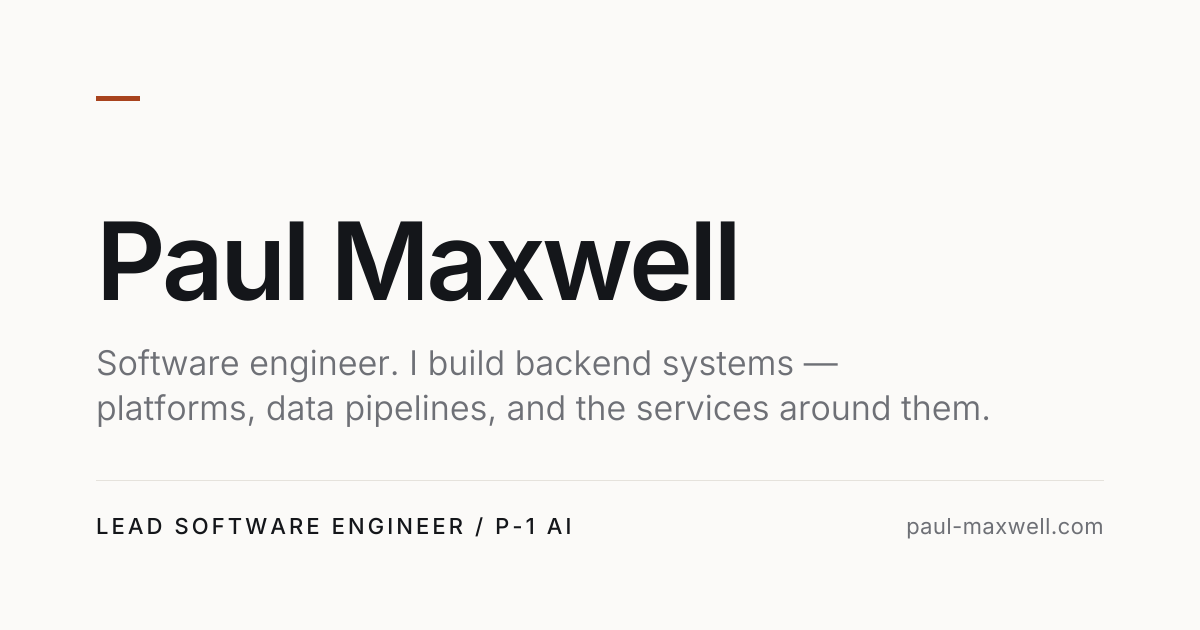
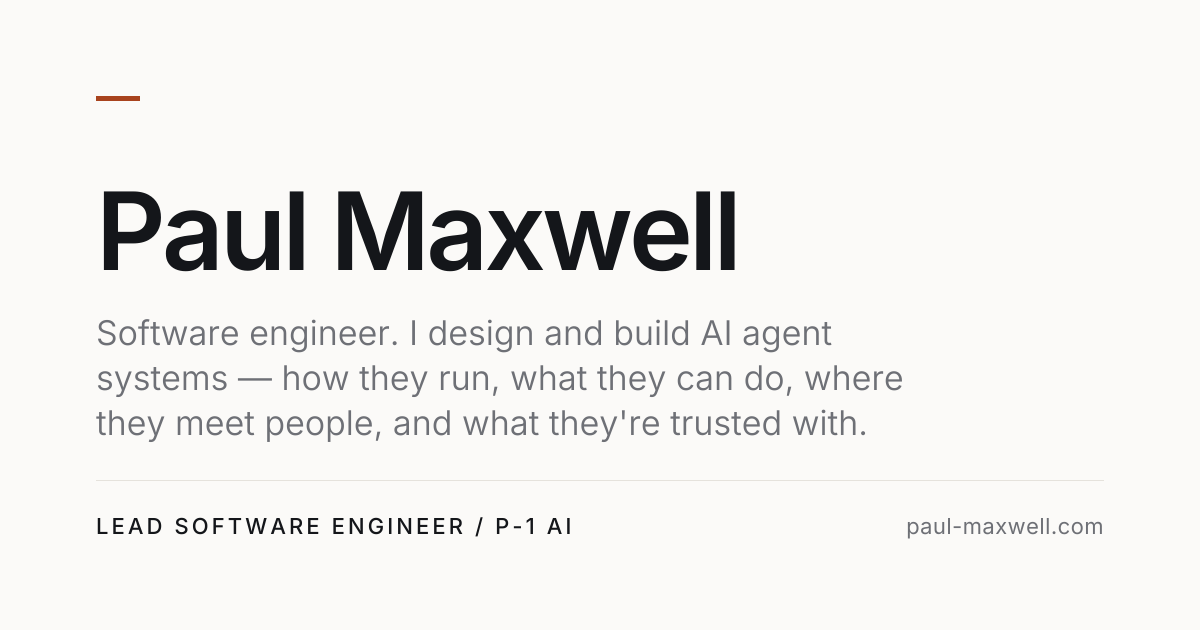
Reposition the site copy around AI agent systems
Rewrite the lede, bio, description, and first About paragraph so the
site leads with designing and building AI agent systems instead of
generic backend work. Work summaries are unchanged. The parked ask
content is synced to the same wording.

The Open Graph card printed the old lede as baked-in text, so
make_assets.py now reads the lede from content/site.toml, wraps it,
and rasterises og-image.png itself instead of leaving that to manual
steps. It records the lede it drew in og-card-lede.txt, and a test
fails when that drifts from site.toml, so the share card cannot go
stale silently again. The script also refuses a lede that does not fit
the card or uses a glyph Inter lacks.

The homepage test compares against site.lede rather than a literal,
and a blank lede now fails content validation.

Changed region(s): [[0.0617, 0.5127, 0.8325, 0.6937], [0.0617, 0.3016, 0.6167, 0.4825]]

diff --git a/docs/superpowers/make_assets.py b/docs/superpowers/make_assets.py
@@ -1,32 +1,26 @@
 """Build the favicon and the Open Graph card from real Inter outlines.
 
 Text is emitted as vector paths, not <text>, so nothing depends on the
-viewer having Inter installed. Writes favicon.svg and og.svg into static/.
+viewer having Inter installed. Writes static/favicon.svg, static/og-image.png,
+and docs/superpowers/og-card-lede.txt.
 
-This script produces SVGs only. It does NOT produce the PNGs that are
-actually shipped — static/og-image.png and static/apple-touch-icon.png.
-Those were rasterised by hand on macOS with `qlmanage` and `sips`, a step
-that lives only in this docstring, not in any script. If you change the
-favicon or OG card, regenerate the SVGs here first, then repeat the manual
-rasterisation below.
+The OG card prints the lede from content/site.toml; its name, role line, and
+domain are still literals here. og-card-lede.txt records the lede the PNG was
+drawn with, and a test in crates/site fails when it drifts from site.toml —
+rerun this script whenever that test says so.
 
-Requires fontTools (with the brotli extra, needed to decode the source
-.woff2). These are not project dependencies — install them separately
-(e.g. `pip install fontTools[woff] brotli`) before running. Run manually
-when the wordmark or brand colours change; this script is never invoked
-by the build (`cargo run -p site`), and the generated/rasterised assets
-are committed to the repo as-is.
+Requires macOS (Quick Look's `qlmanage` and `sips` rasterise the card),
+Python 3.11+, and fontTools with the brotli extra to decode the source
+.woff2. These are not project dependencies — install them separately
+(e.g. `pip install fontTools[woff] brotli`). The build (`cargo run -p site`)
+never invokes this script; its outputs are committed.
 
-Manual PNG rasterisation (macOS, requires Quick Look + `sips`):
+Quick Look scales an SVG to fill a square thumbnail, so rendering the
+630-tall card directly would get magnified and cropped. The card is instead
+placed on a 1200x1200 canvas, shifted down 285px to centre it, and cropped
+back to 1200x630 afterwards.
 
-  og-image.png (1200x630):
-    Quick Look scales an SVG to fill a square thumbnail, so rendering the
-    630-tall card directly would get magnified and cropped. Instead, put
-    the card's content on a square 1200x1200 canvas, with everything
-    translated down by 285px to vertically center the original 630-tall
-    composition, and save that as og_square.svg. Then:
-      qlmanage -t -s 1200 -o <dir> og_square.svg
-      sips -c 630 1200 <dir>/og_square.png --out og-image.png
+static/apple-touch-icon.png is NOT produced here and is still a manual step:
 
   apple-touch-icon.png (180x180):
     iOS ignores transparency and applies its own corner rounding, so the
@@ -35,6 +29,9 @@ Manual PNG rasterisation (macOS, requires Quick Look + `sips`):
     that as touch.svg. Then:
       qlmanage -t -s 180 -o <dir> touch.svg
 """
+import subprocess
+import tempfile
+import tomllib
 from pathlib import Path
 
 from fontTools.ttLib import TTFont
@@ -46,6 +43,7 @@ from fontTools.misc.transform import Transform
 REPO_ROOT = Path(__file__).resolve().parents[2]
 SRC = REPO_ROOT / "static" / "fonts" / "InterVariable.woff2"
 OUT = REPO_ROOT / "static"
+LEDE_STAMP = REPO_ROOT / "docs" / "superpowers" / "og-card-lede.txt"
 
 INK, PAPER, MUTED, RUST = "#14161A", "#FBFAF8", "#6E7076", "#A8431E"
 INK_D, PAPER_D = "#E9E7E2", "#0E0F11"
@@ -60,6 +58,13 @@ def face(weight):
     return _cache[weight]
 
 
+def glyph_name(cmap, ch):
+    name = cmap.get(ord(ch))
+    if name is None:
+        raise ValueError(f"Inter has no glyph for {ch!r}")
+    return name
+
+
 def text_path(s, weight, size_px, x, y, tracking_em=0.0, fill=INK):
     """Render `s` as one <path> at baseline (x, y), `size_px` tall per em."""
     f = face(weight)
@@ -71,10 +76,7 @@ def text_path(s, weight, size_px, x, y, tracking_em=0.0, fill=INK):
     pen = SVGPathPen(gs)
     cursor = 0.0
     for ch in s:
-        name = cmap.get(ord(ch))
-        if name is None:
-            cursor += upem * 0.3
-            continue
+        name = glyph_name(cmap, ch)
         t = Transform(scale, 0, 0, -scale, x + cursor * scale, y)
         gs[name].draw(TransformPen(pen, t))
         cursor += gs[name].width + kern
@@ -87,9 +89,37 @@ def measure(s, weight, size_px, tracking_em=0.0):
     gs, cmap = f.getGlyphSet(), f.getBestCmap()
     total = 0.0
     for ch in s:
-        name = cmap.get(ord(ch))
-        total += (gs[name].width if name else upem * 0.3) + tracking_em * upem
+        total += gs[glyph_name(cmap, ch)].width + tracking_em * upem
     return total * (size_px / upem)
+
+
+def greedy_wrap(s, weight, size_px, max_width):
+    lines, current = [], ""
+    for word in s.split():
+        candidate = f"{current} {word}".strip()
+        if current and measure(candidate, weight, size_px) > max_width:
+            lines.append(current)
+            current = word
+        else:
+            current = candidate
+    return lines + [current]
+
+
+def balanced_wrap(s, weight, size_px, max_width):
+    """Greedy wrapping leaves a short last line; narrow the measure until one
+    more step would add a line, so the lines come out near-equal instead."""
+    lines = greedy_wrap(s, weight, size_px, max_width)
+    for width in range(int(max_width), 0, -8):
+        narrower = greedy_wrap(s, weight, size_px, width)
+        if len(narrower) > len(lines):
+            break
+        lines = narrower
+    return lines
+
+
+def site_lede():
+    with open(REPO_ROOT / "content" / "site.toml", "rb") as f:
+        return tomllib.load(f)["lede"]
 
 
 # ---------------------------------------------------------------- favicon
@@ -111,7 +141,7 @@ def favicon():
 
 
 # --------------------------------------------------------------- OG card
-def og_card():
+def og_card(lede):
     W, H = 1200, 630
     M = 96
     name_size, lede_size, meta_size = 108, 34, 22
@@ -121,12 +151,17 @@ def og_card():
     parts.append(f'<rect x="{M}" y="{H-150}" width="{W-2*M}" height="1" fill="#E5E2DC"/>')
     parts.append(f'<rect x="{M}" y="{M}" width="44" height="5" fill="{RUST}"/>')
 
-    p, _ = text_path("Paul Maxwell", 600, name_size, M, 300, -0.035, INK)
+    lede_lines = balanced_wrap(lede, 350, lede_size, W - 2 * M)
+    widest = max(measure(line, 350, lede_size) for line in lede_lines)
+    if len(lede_lines) > 3 or widest > W - 2 * M:
+        raise ValueError(f"lede does not fit the OG card: {lede_lines}")
+    lede_leading, last_lede_y = 45, 435
+    first_lede_y = last_lede_y - lede_leading * (len(lede_lines) - 1)
+    p, _ = text_path("Paul Maxwell", 600, name_size, M, first_lede_y - 75, -0.035, INK)
     parts.append(p)
-    p, _ = text_path("Software engineer. I build backend systems —", 350, lede_size, M, 375, 0, MUTED)
-    parts.append(p)
-    p, _ = text_path("platforms, data pipelines, and the services around them.", 350, lede_size, M, 420, 0, MUTED)
-    parts.append(p)
+    for i, line in enumerate(lede_lines):
+        p, _ = text_path(line, 350, lede_size, M, first_lede_y + i * lede_leading, 0, MUTED)
+        parts.append(p)
     p, _ = text_path("LEAD SOFTWARE ENGINEER / P-1 AI", 500, meta_size, M, H - 96, 0.14, INK)
     parts.append(p)
     w = measure("paul-maxwell.com", 400, meta_size, 0.02)
@@ -137,7 +172,23 @@ def og_card():
             f'width="{W}" height="{H}">' + "".join(parts) + "</svg>\n")
 
 
-open(f"{OUT}/favicon.svg", "w").write(favicon())
-open(f"{OUT}/og.svg", "w").write(og_card())
-print("favicon.svg", len(favicon()), "bytes")
-print("og.svg", len(og_card()), "bytes")
+def rasterise_og_card(card_svg):
+    inner = card_svg[card_svg.index(">") + 1 : card_svg.rindex("</svg>")]
+    square = ('<svg xmlns="http://www.w3.org/2000/svg" viewBox="0 0 1200 1200" '
+              f'width="1200" height="1200"><rect width="1200" height="1200" fill="{PAPER}"/>'
+              f'<g transform="translate(0,285)">{inner}</g></svg>')
+    with tempfile.TemporaryDirectory() as tmp:
+        src = Path(tmp) / "og_square.svg"
+        src.write_text(square)
+        subprocess.run(["qlmanage", "-t", "-s", "1200", "-o", tmp, str(src)],
+                       check=True, capture_output=True)
+        subprocess.run(["sips", "-c", "630", "1200", f"{src}.png", "--out", str(OUT / "og-image.png")],
+                       check=True, capture_output=True)
+
+
+if __name__ == "__main__":
+    lede = site_lede()
+    (OUT / "favicon.svg").write_text(favicon())
+    rasterise_og_card(og_card(lede))
+    LEDE_STAMP.write_text(lede + "\n")
+    print(f"wrote favicon.svg, og-image.png, and {LEDE_STAMP.name}")

diff --git a/crates/site/src/content.rs b/crates/site/src/content.rs
@@ -135,10 +135,14 @@ impl Site {
         Ok(site)
     }
 
-    /// Rejects content that would render a broken-looking page. Empty `work`
-    /// or `about` produce a section header over nothing, or a bare heading —
-    /// a content mistake should fail the build loudly rather than ship.
+    /// Rejects content that would render a broken-looking page. A blank
+    /// `lede`, or empty `work` or `about`, produce an empty paragraph, a
+    /// section header over nothing, or a bare heading — a content mistake
+    /// should fail the build loudly rather than ship.
     fn validate(&self, path: &Path) -> Result<()> {
+        if self.lede.trim().is_empty() {
+            bail!("{}: `lede` must not be blank", path.display());
+        }
         if self.about.is_empty() {
             bail!("{}: `about` must not be empty", path.display());
         }
@@ -202,12 +206,33 @@ surprise = "should not parse"
     }
 
     #[test]
+    fn og_card_was_drawn_with_the_current_lede() {
+        let stamp = std::fs::read_to_string("../../docs/superpowers/og-card-lede.txt")
+            .expect("og-card-lede.txt is committed");
+        assert_eq!(
+            stamp.trim_end(),
+            fixture_site().lede,
+            "static/og-image.png prints a stale lede; rerun docs/superpowers/make_assets.py"
+        );
+    }
+
+    #[test]
     fn empty_work_is_rejected() {
         let mut site = fixture_site();
         site.work = vec![];
         let err =
             site.validate(Path::new("content/site.toml")).expect_err("empty work must be rejected");
         assert!(err.to_string().contains("work"), "got: {err}");
+        assert!(err.to_string().contains("site.toml"), "got: {err}");
+    }
+
+    #[test]
+    fn blank_lede_is_rejected() {
+        let mut site = fixture_site();
+        site.lede = " ".into();
+        let err =
+            site.validate(Path::new("content/site.toml")).expect_err("blank lede must be rejected");
+        assert!(err.to_string().contains("lede"), "got: {err}");
         assert!(err.to_string().contains("site.toml"), "got: {err}");
     }
 

diff --git a/crates/site/src/pages/index.rs b/crates/site/src/pages/index.rs
@@ -35,7 +35,7 @@ mod tests {
         let site = Site::load(Path::new("../../content/site.toml")).unwrap();
         let out = render(&site).into_string();
         assert!(out.contains("Paul"), "name missing");
-        assert!(out.contains("backend systems"), "lede missing");
+        assert!(out.contains(&html! { (site.lede) }.into_string()), "lede missing");
         assert!(out.contains("Selected Work"));
         assert!(out.contains("Archie BYOC Platform"));
         assert!(out.contains(r#"aria-current="page""#));

diff --git a/README.md b/README.md
@@ -25,7 +25,7 @@ Concretely, the build refuses to produce a site where:
 - an inline script changes without the Content-Security-Policy being updated to
   match (see [Security](#security)).
 
-166 tests across four crates. Most of them exist to pin an invariant that would
+168 tests across four crates. Most of them exist to pin an invariant that would
 otherwise be silently breakable — including cross-file ones that assert a CSS
 class the JavaScript writes is actually defined in the stylesheet.
 
@@ -47,7 +47,7 @@ docs/            design specs and implementation plans
 ```sh
 ./scripts/build-wasm.sh      # compile the demo crates to wasm (needs the wasm-bindgen CLI at Cargo.lock's wasm-bindgen version)
 cargo run -p site            # render the site into dist/
-cargo test --all             # 166 tests
+cargo test --all             # 168 tests
 cargo fmt --all              # rustfmt.toml keeps the codebase's compact style
 ```
 
